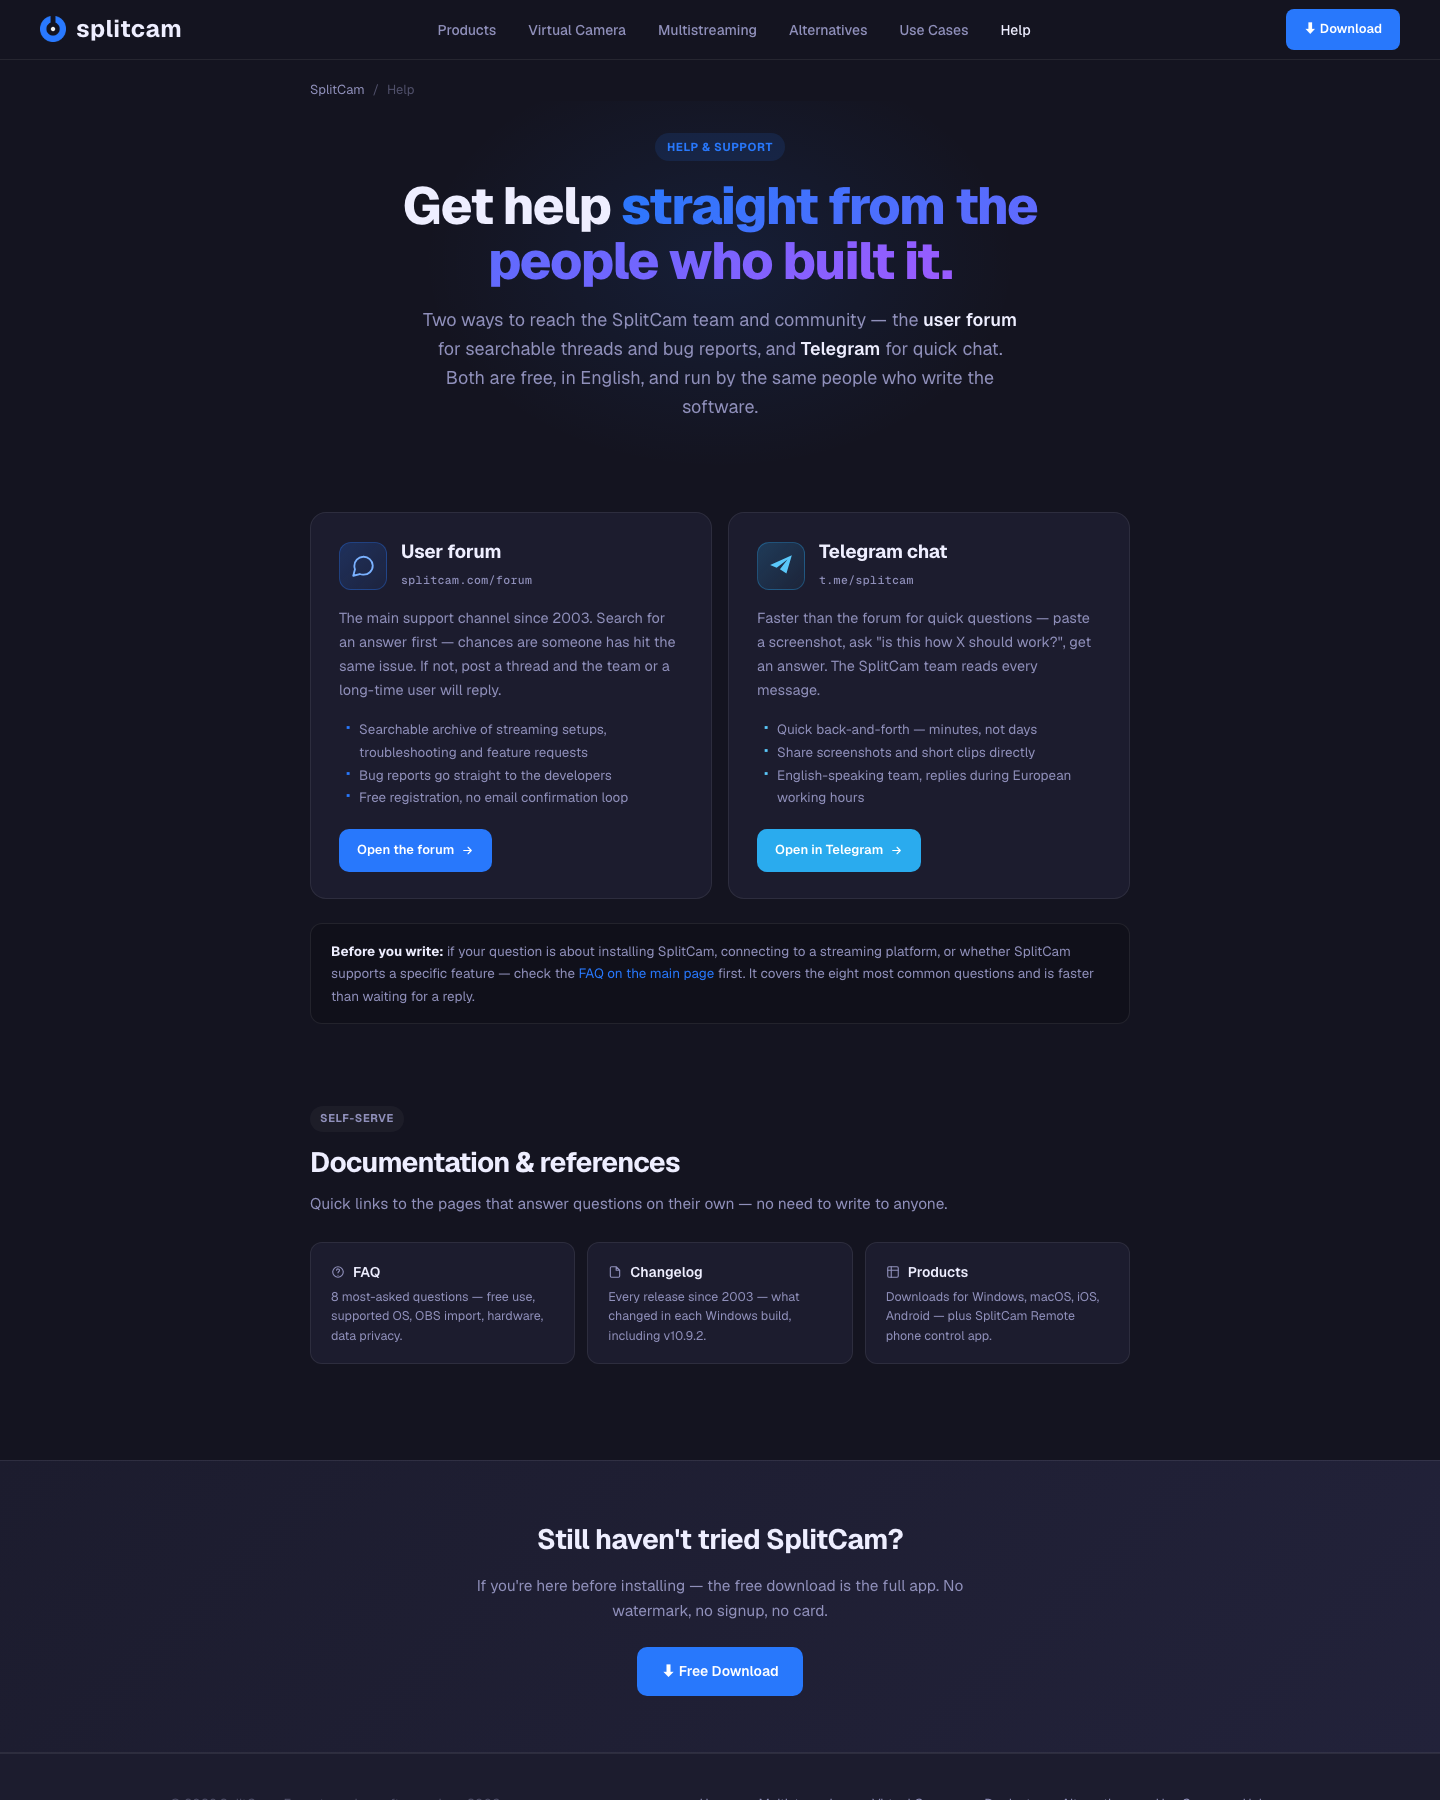
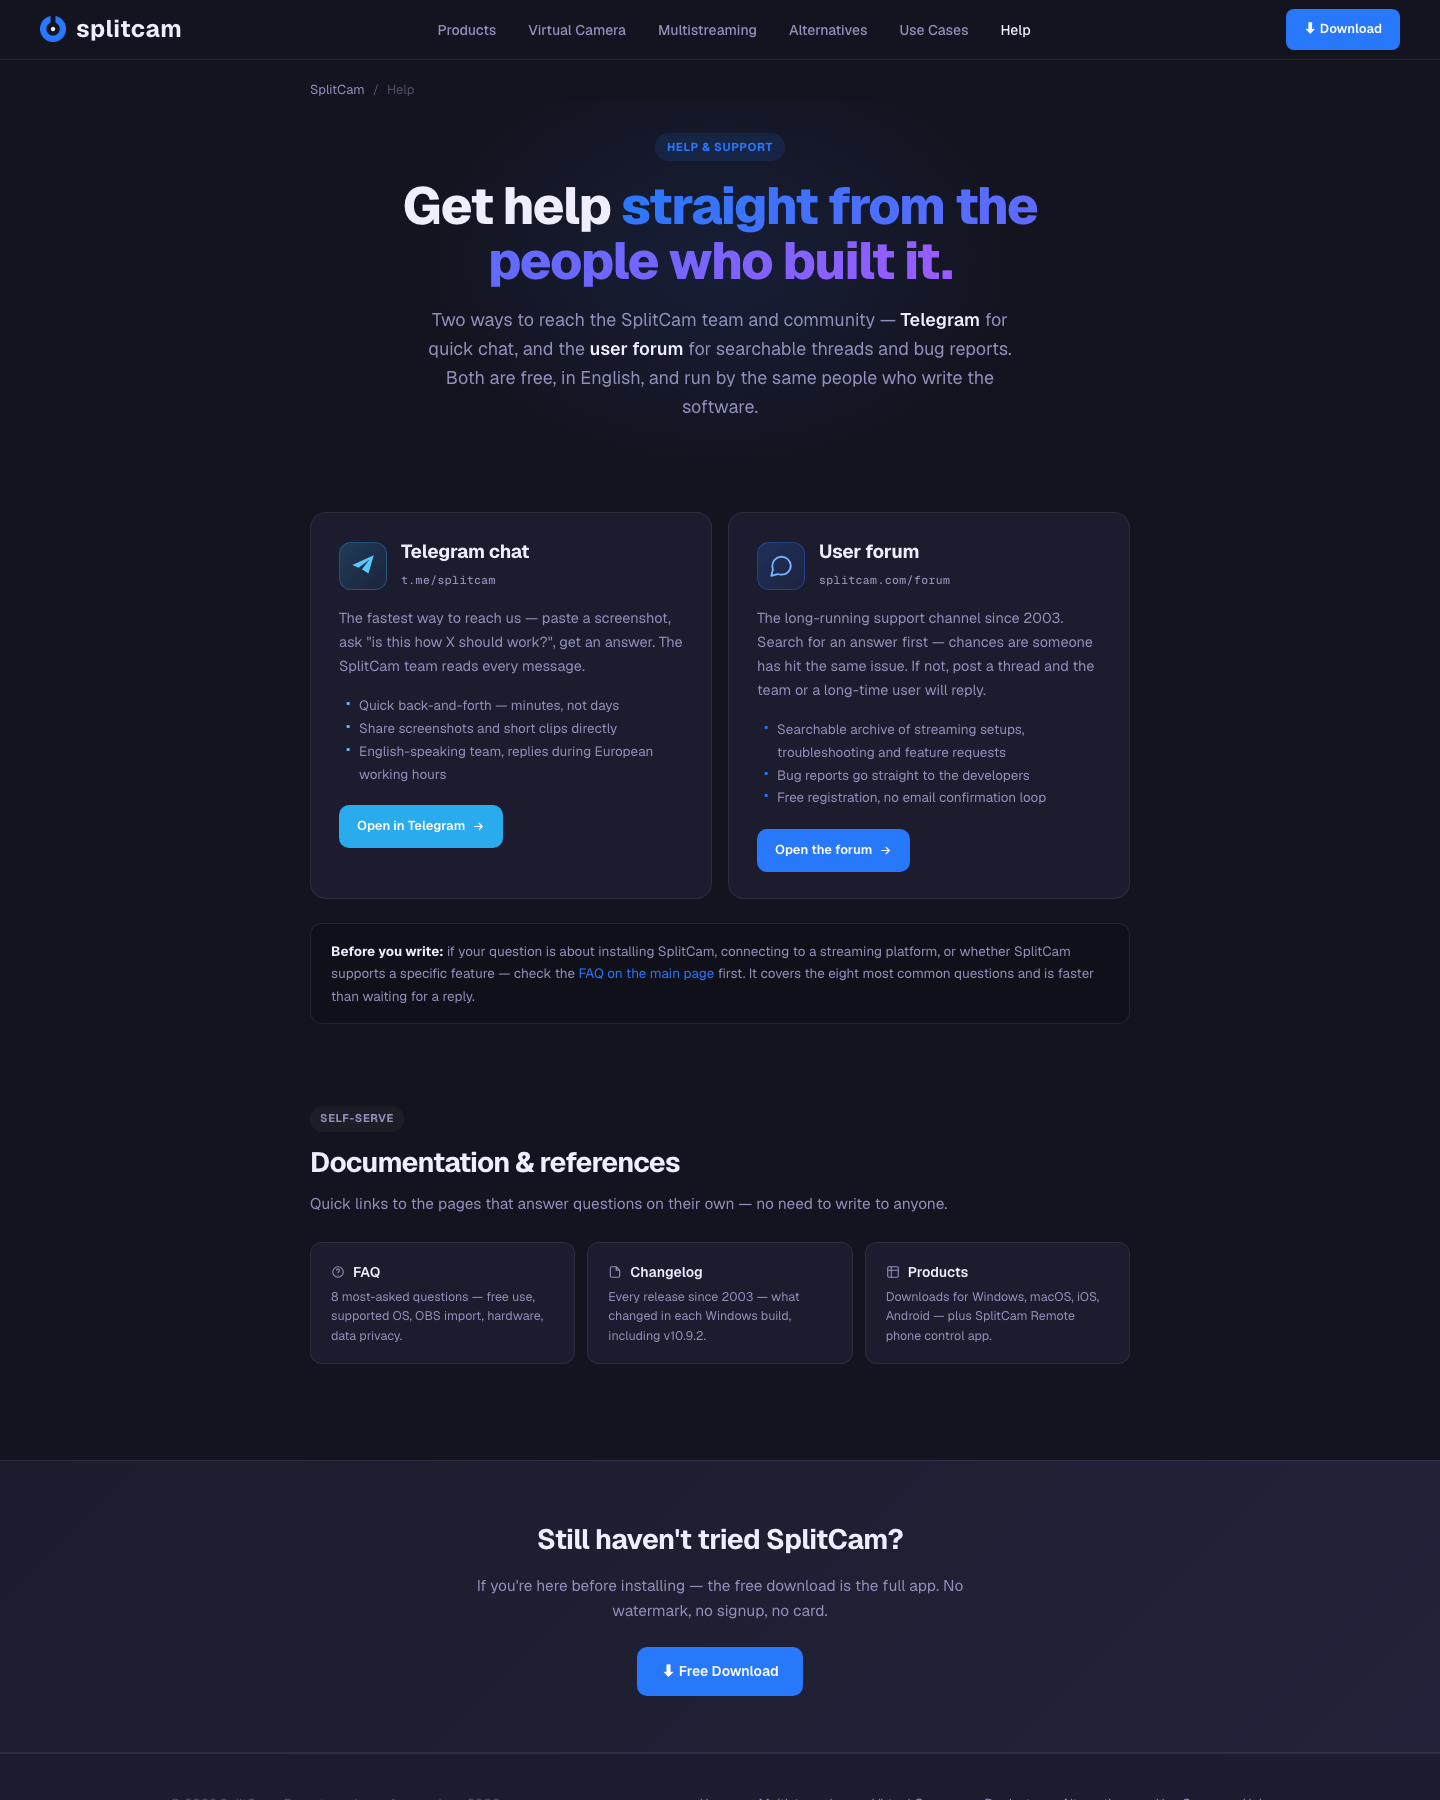
Help: put Telegram before the forum (cards + hero copy)
Telegram is the faster channel for most users, so it should lead.

- Hero subtitle: '… Telegram for quick chat, and the user forum for
  searchable threads and bug reports.' (was reversed)
- Channel cards: Telegram chat first, user forum second
- Forum: dropped 'main support channel' in favour of 'long-running' —
  keeping the 2003 history without claiming primary status
- Telegram blurb: 'The fastest way to reach us' instead of 'Faster
  than the forum' — reads better as the first card

diff --git a/help/index.html b/help/index.html
@@ -240,31 +240,12 @@ footer{padding:40px;border-top:1px solid var(--app-border);background:var(--app-
   <div class="hero-glow"></div>
   <span class="eyebrow">Help & support</span>
   <h1 class="h1">Get help <span class="accent">straight from the people who built it.</span></h1>
-  <p class="sub">Two ways to reach the SplitCam team and community — the <strong>user forum</strong> for searchable threads and bug reports, and <strong>Telegram</strong> for quick chat. Both are free, in English, and run by the same people who write the software.</p>
+  <p class="sub">Two ways to reach the SplitCam team and community — <strong>Telegram</strong> for quick chat, and the <strong>user forum</strong> for searchable threads and bug reports. Both are free, in English, and run by the same people who write the software.</p>
 </section>
 
 <!-- CHANNELS -->
 <section class="section">
   <div class="channels">
-    <a class="channel forum" href="https://splitcam.com/forum/" target="_blank" rel="noopener">
-      <div class="channel-head">
-        <div class="channel-icon">
-          <svg viewBox="0 0 24 24"><path d="M21 11.5a8.4 8.4 0 0 1-9 8.5 8.4 8.4 0 0 1-3-.6L3 21l1.6-6A8.4 8.4 0 0 1 4 12a8.4 8.4 0 0 1 8-8.5 8.4 8.4 0 0 1 9 8Z"/></svg>
-        </div>
-        <div>
-          <h3>User forum</h3>
-          <span class="channel-tag">splitcam.com/forum</span>
-        </div>
-      </div>
-      <p class="channel-desc">The main support channel since 2003. Search for an answer first — chances are someone has hit the same issue. If not, post a thread and the team or a long-time user will reply.</p>
-      <ul class="channel-features">
-        <li>Searchable archive of streaming setups, troubleshooting and feature requests</li>
-        <li>Bug reports go straight to the developers</li>
-        <li>Free registration, no email confirmation loop</li>
-      </ul>
-      <span class="channel-cta">Open the forum <svg viewBox="0 0 24 24"><path d="M5 12h14m-6-6 6 6-6 6"/></svg></span>
-    </a>
-
     <a class="channel tg" href="https://t.me/splitcam" target="_blank" rel="noopener">
       <div class="channel-head">
         <div class="channel-icon">
@@ -275,13 +256,32 @@ footer{padding:40px;border-top:1px solid var(--app-border);background:var(--app-
           <span class="channel-tag">t.me/splitcam</span>
         </div>
       </div>
-      <p class="channel-desc">Faster than the forum for quick questions — paste a screenshot, ask "is this how X should work?", get an answer. The SplitCam team reads every message.</p>
+      <p class="channel-desc">The fastest way to reach us — paste a screenshot, ask "is this how X should work?", get an answer. The SplitCam team reads every message.</p>
       <ul class="channel-features">
         <li>Quick back-and-forth — minutes, not days</li>
         <li>Share screenshots and short clips directly</li>
         <li>English-speaking team, replies during European working hours</li>
       </ul>
       <span class="channel-cta">Open in Telegram <svg viewBox="0 0 24 24"><path d="M5 12h14m-6-6 6 6-6 6"/></svg></span>
+    </a>
+
+    <a class="channel forum" href="https://splitcam.com/forum/" target="_blank" rel="noopener">
+      <div class="channel-head">
+        <div class="channel-icon">
+          <svg viewBox="0 0 24 24"><path d="M21 11.5a8.4 8.4 0 0 1-9 8.5 8.4 8.4 0 0 1-3-.6L3 21l1.6-6A8.4 8.4 0 0 1 4 12a8.4 8.4 0 0 1 8-8.5 8.4 8.4 0 0 1 9 8Z"/></svg>
+        </div>
+        <div>
+          <h3>User forum</h3>
+          <span class="channel-tag">splitcam.com/forum</span>
+        </div>
+      </div>
+      <p class="channel-desc">The long-running support channel since 2003. Search for an answer first — chances are someone has hit the same issue. If not, post a thread and the team or a long-time user will reply.</p>
+      <ul class="channel-features">
+        <li>Searchable archive of streaming setups, troubleshooting and feature requests</li>
+        <li>Bug reports go straight to the developers</li>
+        <li>Free registration, no email confirmation loop</li>
+      </ul>
+      <span class="channel-cta">Open the forum <svg viewBox="0 0 24 24"><path d="M5 12h14m-6-6 6 6-6 6"/></svg></span>
     </a>
   </div>
 
